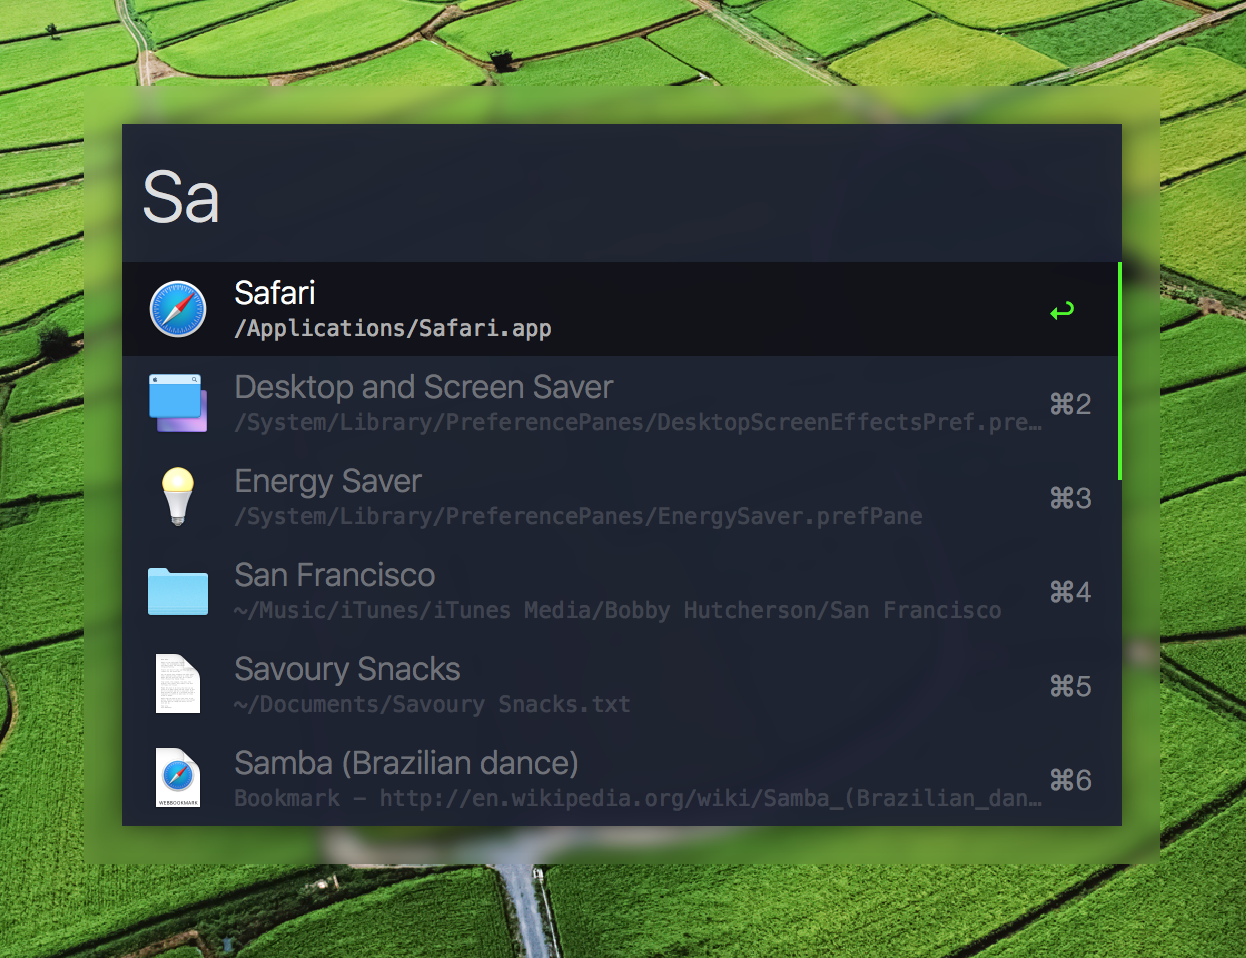
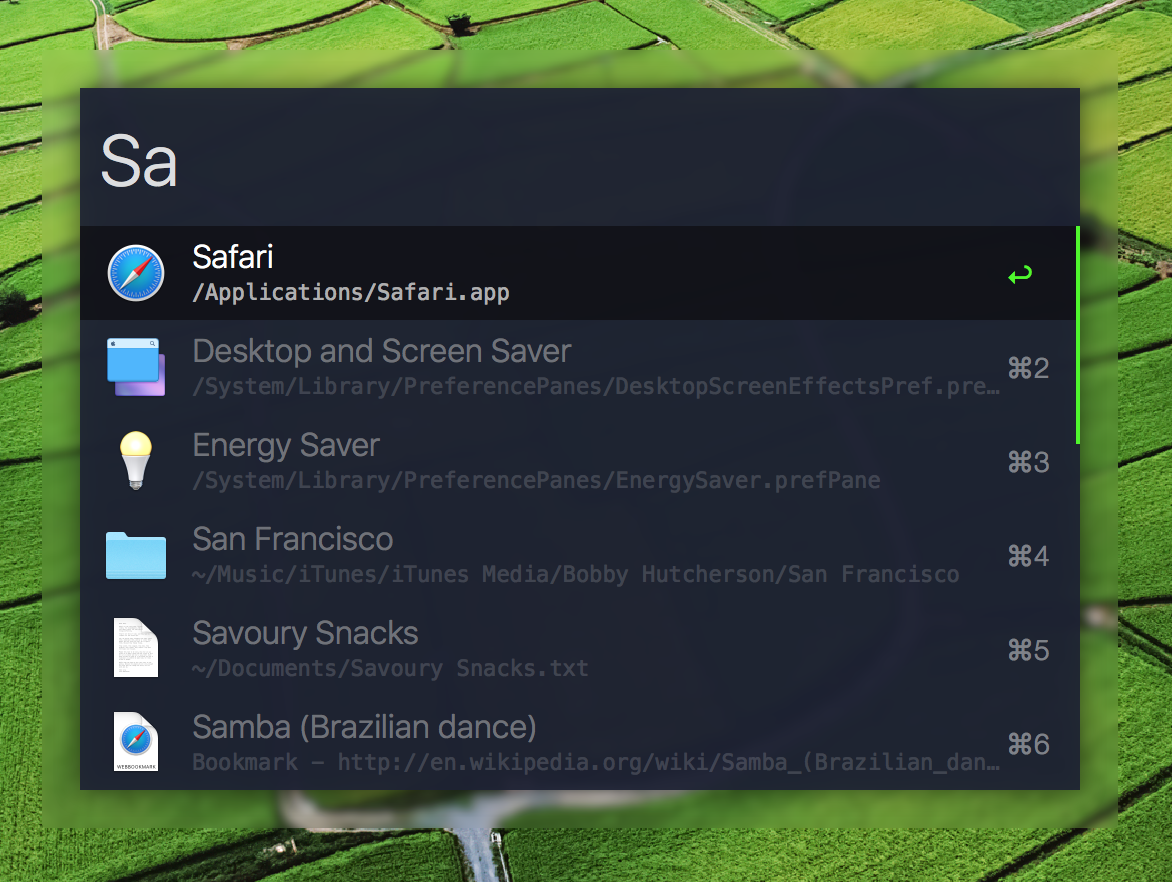
updated screenshots, fixed blur inconsistency, emoji

diff --git a/README.md b/README.md
@@ -1,4 +1,4 @@
-Smoked Alfred Theme
+Smoked Alfred Theme 🔥💨
 ======
 Simple subtle theme series for [Alfred 3](http://www.alfredapp.com/)
 
